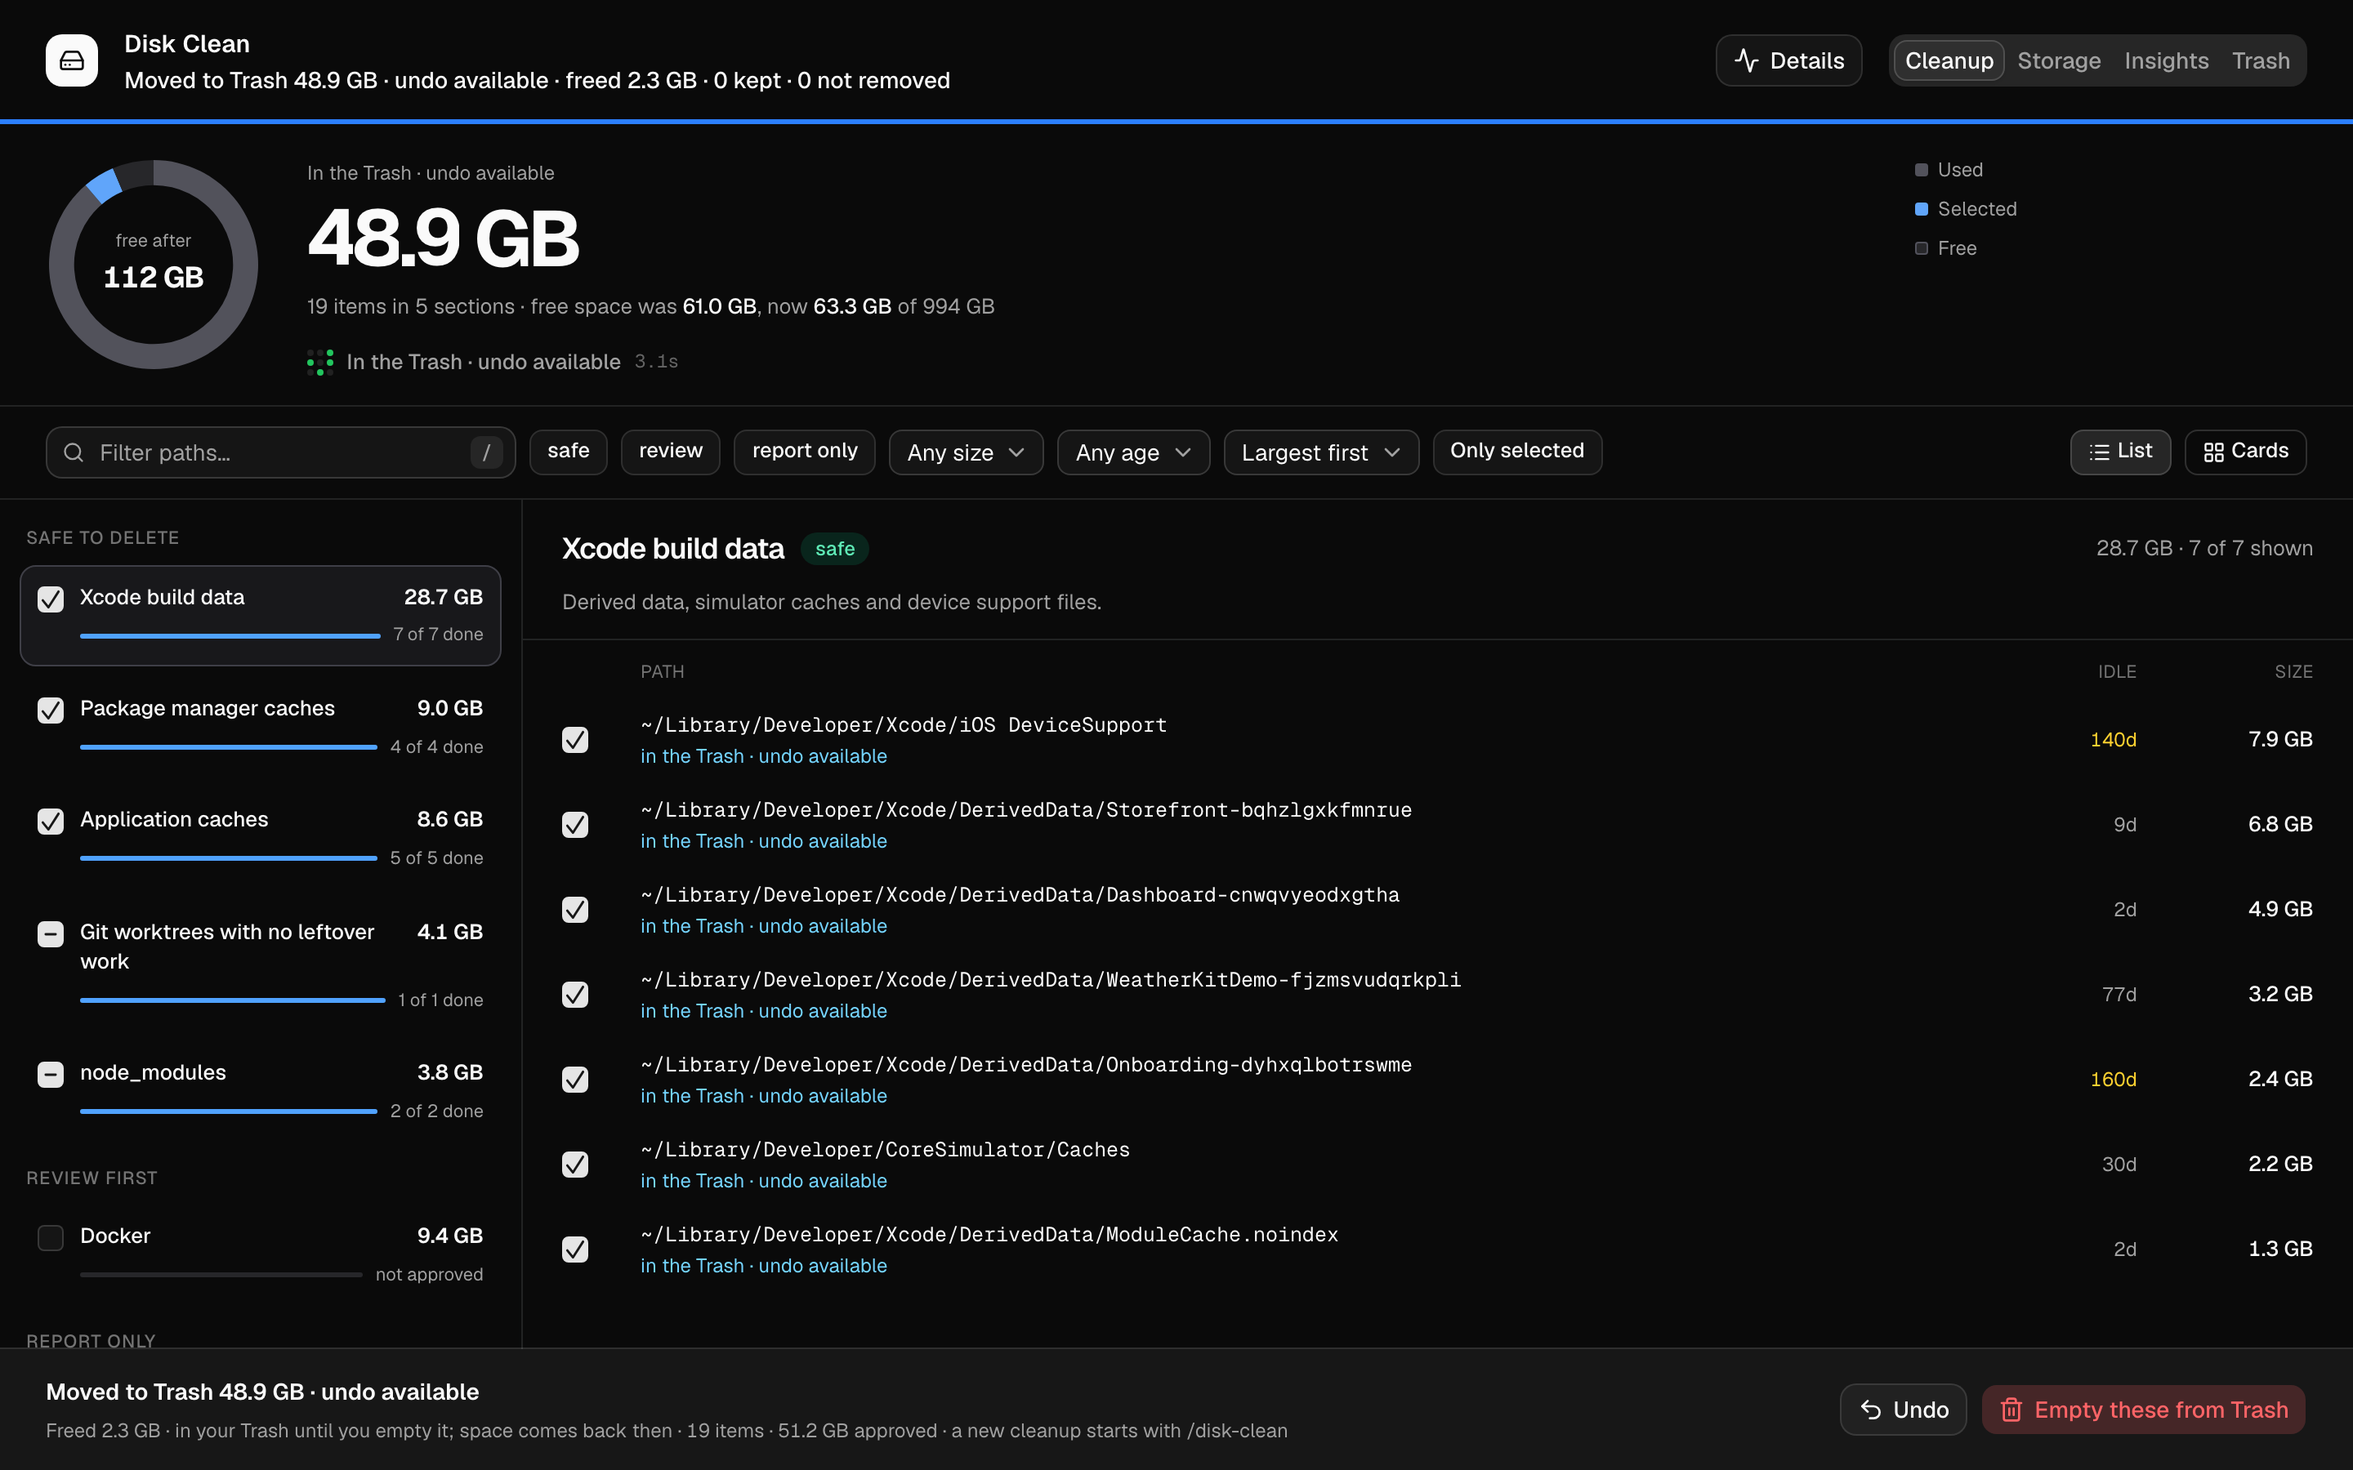
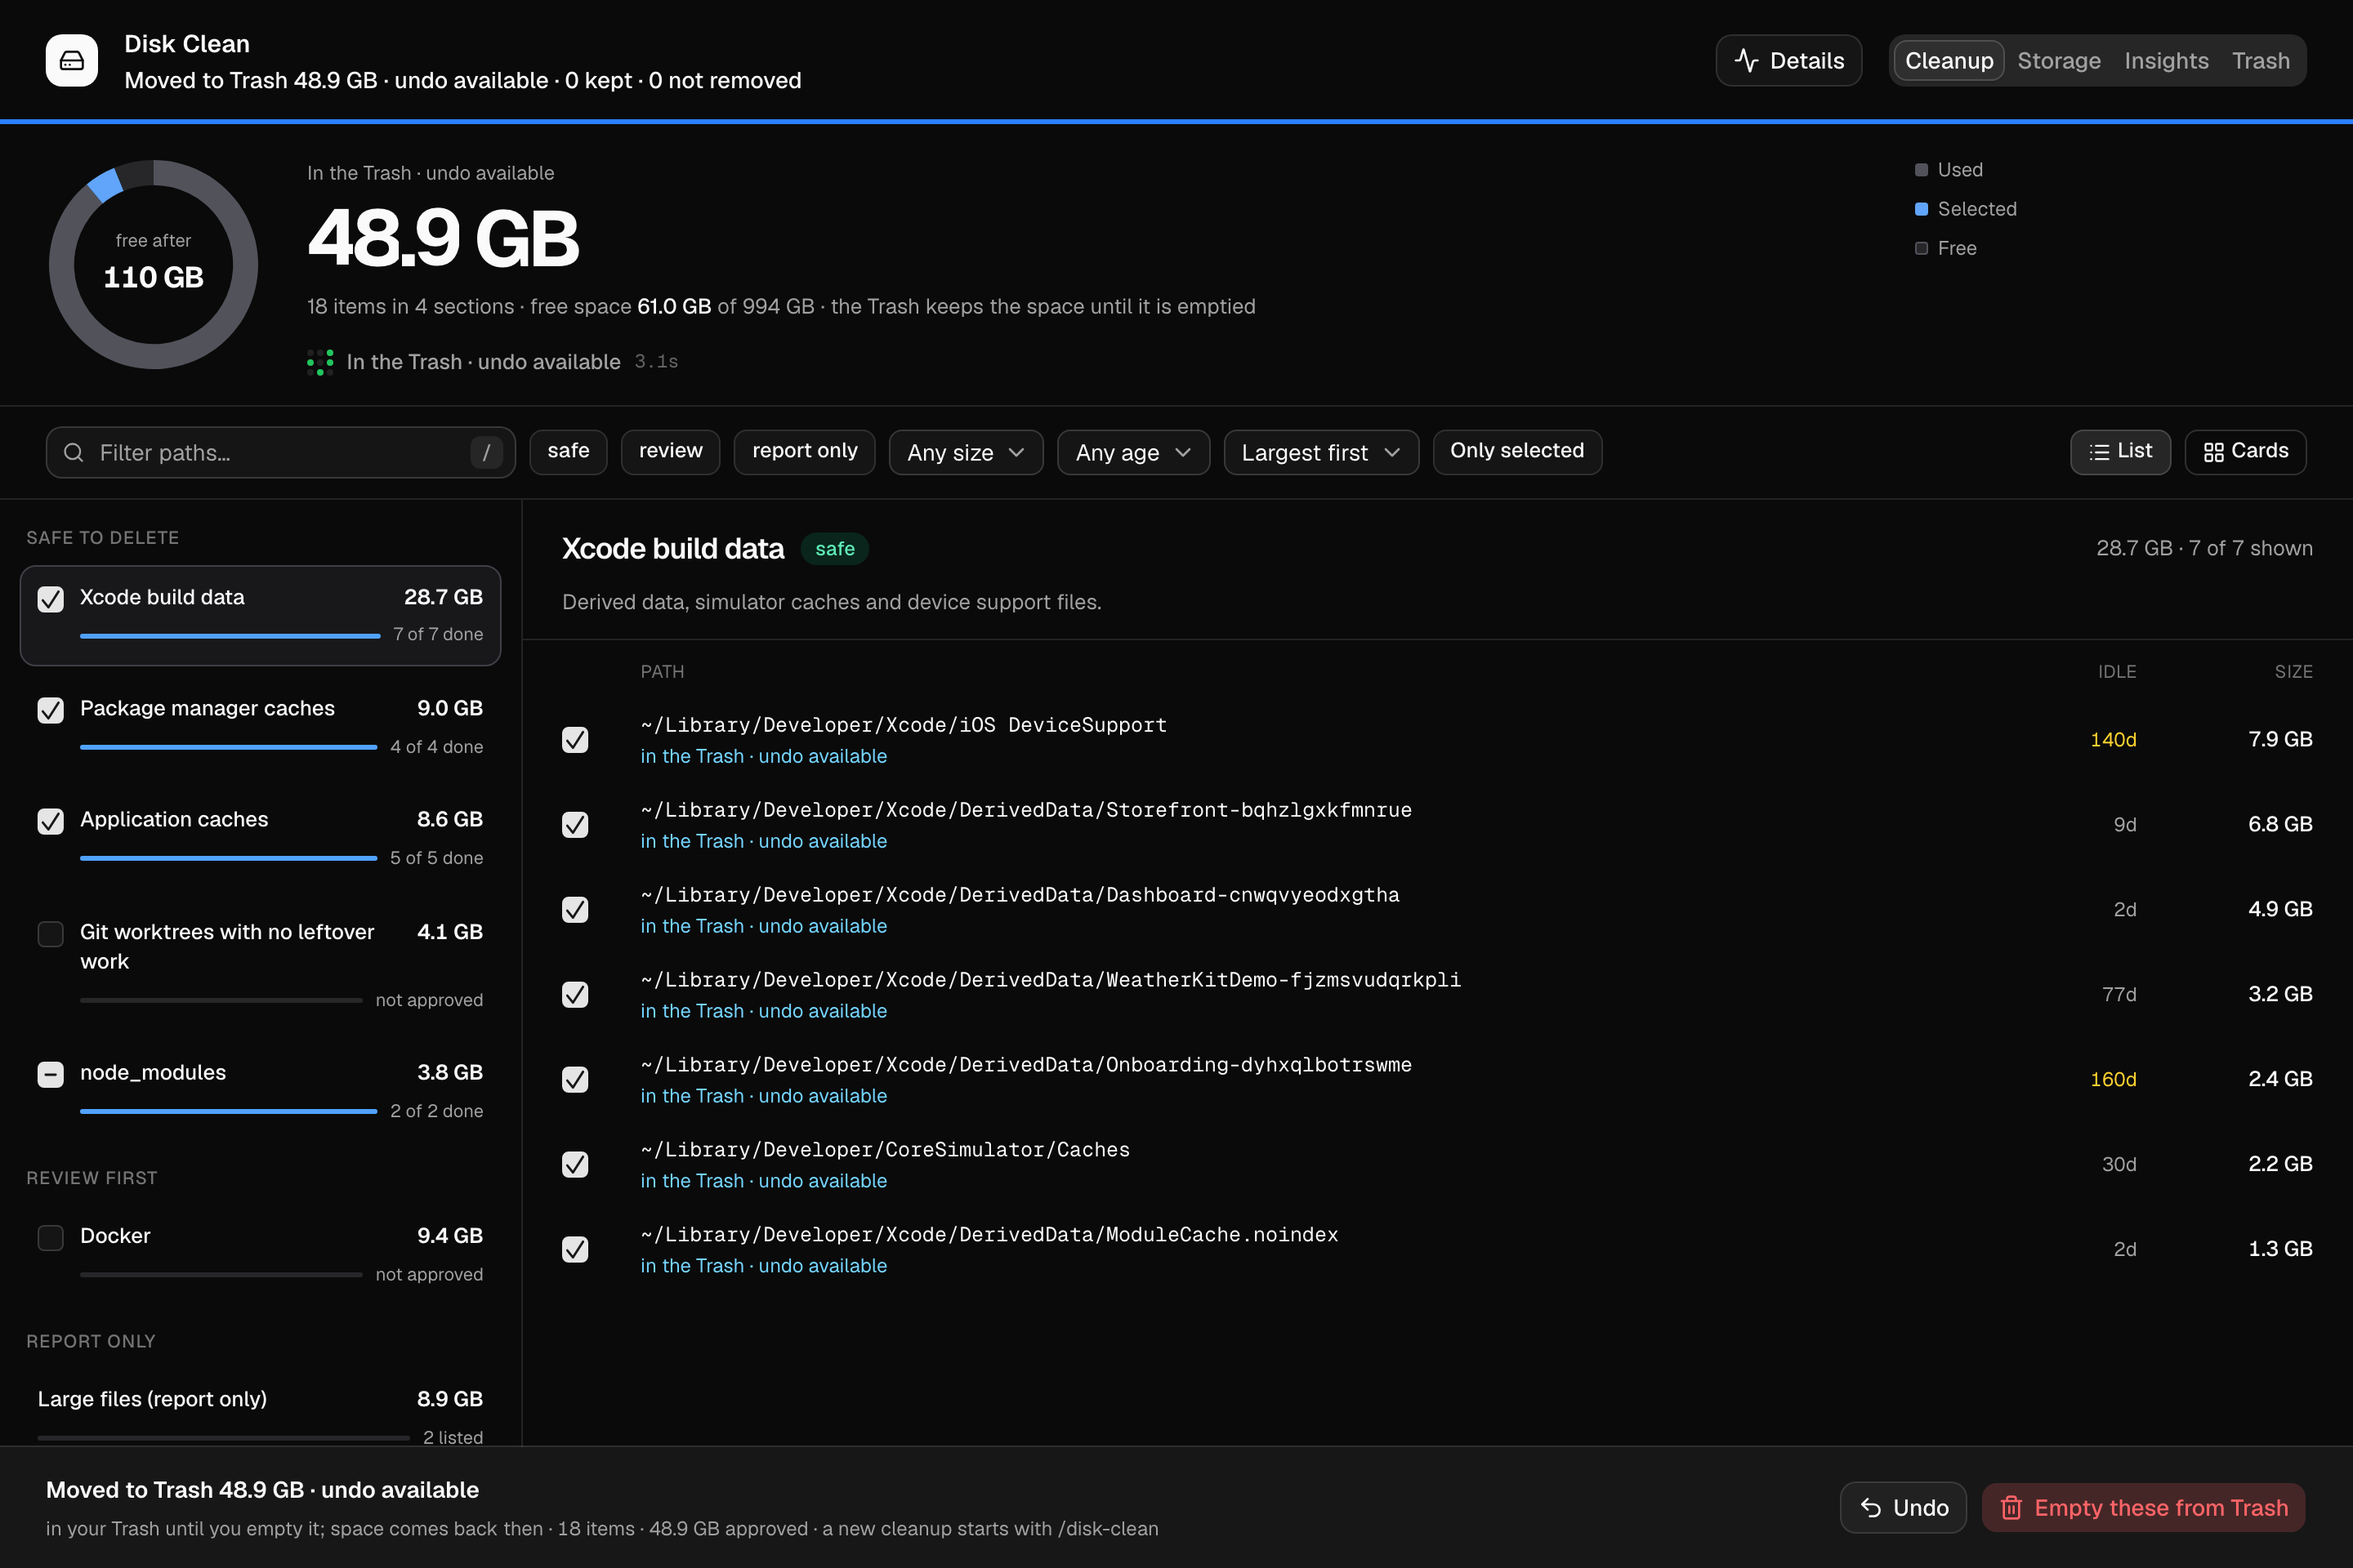
docs(disk-clean): retake hero, palette and confirm shots; live-scan emoji
The capture script now fills the page placeholders the way the binary does
(token, home, data with the run), so the demo ends on the real
"Moved to Trash · undo available" state. Hero and finale use a 960 px tall
viewport so no sidebar heading is cut; the palette is the full window; the
confirm list ends on a whole row and its footer fits one line.

diff --git a/plugins/disk-clean/web/scripts/screenshots.ts b/plugins/disk-clean/web/scripts/screenshots.ts
@@ -52,7 +52,7 @@ const categories = [
     item(`${HOME}/code/dashboard/node_modules`, 1.2 * GB, {label: '~/code/dashboard', age: 4, preselect: false, accuracy: 'estimate', note: 'pnpm project, last installed 4 days ago. Restore with: pnpm install'}),
   ]),
   category('worktrees', 'Git worktrees with no leftover work', 'Clean worktrees: no uncommitted, untracked or local-only ignored files, no process inside, nothing that exists only in the worktree. Only the folder goes; the branch and every commit stay. Every check is repeated right before removal.', 'safe', [
-    item(`${HOME}/code/dashboard-wt/fix-login`, 2.3 * GB, {age: 38, note: 'Branch fix-login is kept, branch is pushed. Re-create with: git worktree add ~/code/dashboard-wt/fix-login fix-login'}),
+    item(`${HOME}/code/dashboard-wt/fix-login`, 2.3 * GB, {age: 38, preselect: false, note: 'Branch fix-login is kept, branch is pushed. Re-create with: git worktree add ~/code/dashboard-wt/fix-login fix-login'}),
     item(`${HOME}/code/dashboard-wt/charts-v2`, 1.8 * GB, {age: 3, preselect: false, note: 'Active 3.0 days ago. Branch charts-v2 is kept, 2 unpushed commits stay on the local branch. Re-create with: git worktree add ~/code/dashboard-wt/charts-v2 charts-v2'}),
   ]),
   category('docker', 'Docker', 'Dangling images, stopped containers and build cache.', 'review', [
@@ -146,45 +146,31 @@ const RUN = 'run-20261004-161542-a2ad54a5'
 
 const fixture = {
   data: {categories, reclaimable, free: 61 * GB, total: 994 * GB, used: 933 * GB, home: tree.bytes, snapshots: 0, tree, insights},
-  token: 'synthetic',
-  home: HOME,
-  run: RUN,
-  trash: [],
 }
 
-const chosen = categories.flatMap(c => c.items).filter(i => i.preselect && !i.report)
-const chosenBytes = chosen.reduce((sum, i) => sum + i.bytes, 0)
+type Row = ReturnType<typeof item>
 
-const worktree = chosen.filter(i => i.path.includes('-wt/'))
-const trashable = chosen.filter(i => !worktree.includes(i))
-const trashableBytes = trashable.reduce((sum, i) => sum + i.bytes, 0)
-const worktreeBytes = worktree.reduce((sum, i) => sum + i.bytes, 0)
+const sum = (rows: Row[]) => rows.reduce((total, row) => total + row.bytes, 0)
+const recommended = categories.flatMap(c => c.items).filter(i => i.preselect && !i.report)
+const nodeModules = categories.find(c => c.id === 'node-modules')?.items ?? []
+const demoChosen = [...recommended, ...nodeModules.filter(i => !i.preselect)]
 
-const plan = {
-  paths: trashable.map(i => ({path: i.path, bytes: i.bytes, trashed: false})),
-  paths_bytes: trashableBytes,
-  final: [`git -C ${HOME}/code/dashboard worktree remove ${HOME}/code/dashboard-wt/fix-login`, `git -C ${HOME}/code/dashboard worktree prune`],
-  final_bytes: worktreeBytes,
-  final_count: worktree.length,
-  rejected: [],
-  count: chosen.length,
-  bytes: chosenBytes,
+function planFor(chosen: Row[]) {
+  return {paths: chosen.map(i => ({path: i.path, bytes: i.bytes, trashed: false})), paths_bytes: sum(chosen), final: [], final_bytes: 0, final_count: 0, rejected: [], count: chosen.length, bytes: sum(chosen)}
 }
 
-function cleanupEvents() {
+function cleanupEvents(chosen: Row[]) {
   const free = fixture.data.free
-  const entries = trashable.map((file, i) => {
+  const entries = chosen.map((file, i) => {
     const id = String(i + 1).padStart(16, '0')
     return {id, run: RUN, original: file.path, trashed: `${HOME}/.Trash/${file.path.split('/').at(-1)}`, bytes: file.bytes, at: NOW + i, dev: 1, ino: 100 + i, state: 'trashed', reason: ''}
   })
   const end = entries.length * 150
   return [
-    {type: 'started', data: {run: RUN, free, paths: entries.length, trash: entries.length, worktrees: 1, commands: 0, bytes: chosenBytes, elapsed_ms: 0}},
+    {type: 'started', data: {run: RUN, free, paths: entries.length, trash: entries.length, worktrees: 0, commands: 0, bytes: sum(chosen), elapsed_ms: 0}},
     ...entries.map((e, i) => ({type: 'trashed', data: {path: e.original, bytes: e.bytes, id: e.id, trashed_path: e.trashed, elapsed_ms: (i + 1) * 150}})),
     {type: 'trash', data: {entries, elapsed_ms: end + 1}},
-    {type: 'worktree', data: {path: `${HOME}/code/dashboard-wt/fix-login`, bytes: worktreeBytes, outcome: 'removed', reason: '', elapsed_ms: end + 300}},
-    {type: 'free', data: {free: free + worktreeBytes, elapsed_ms: end + 301}},
-    {type: 'done', data: {removed: 1, removed_bytes: worktreeBytes, trashed: entries.length, trashed_bytes: trashableBytes, free_before: free, free_after: free + worktreeBytes, elapsed_ms: end + 400}},
+    {type: 'done', data: {removed: 0, removed_bytes: 0, trashed: entries.length, trashed_bytes: sum(chosen), free_before: free, free_after: free, elapsed_ms: end + 400}},
   ]
 }
 
@@ -215,10 +201,21 @@ function openForever(streams: Stream[]) {
   } as unknown as typeof EventSource
 }
 
-async function mockServer(page: Page, streams: Stream[]) {
+async function mockServer(page: Page, chosen: Row[], streams: Stream[], embedded: object) {
   await page.addInitScript(openForever, streams)
-  await page.route('**/dev/fixture.json', route => route.fulfill({json: fixture}))
-  await page.route('**/preview', route => route.fulfill({json: plan}))
+  await page.route(
+    url => url.pathname === '/' || url.pathname.startsWith('/cleanup') || url.pathname.startsWith('/storage') || url.pathname.startsWith('/insights'),
+    async route => {
+      const response = await route.fetch()
+      const html = (await response.text())
+        .replace('__TOKEN__', 'synthetic')
+        .replace('__PLATFORM__', 'macos')
+        .replace('__HOME__', HOME)
+        .replace('__DATA__', JSON.stringify({...embedded, run: RUN, trash: []}))
+      await route.fulfill({response, body: html})
+    },
+  )
+  await page.route('**/preview', route => route.fulfill({json: planFor(chosen)}))
   await page.route('**/decide', route => route.fulfill({json: {}}))
 }
 
@@ -235,15 +232,17 @@ const VIEWPORT = {viewport: {width: 1440, height: 900}, deviceScaleFactor: 2, co
 
 async function screenshots(browser: Browser) {
   const page = await browser.newPage(VIEWPORT)
-  await mockServer(page, [cleanupEvents()])
+  await mockServer(page, recommended, [cleanupEvents(recommended)], fixture.data)
 
+  await page.setViewportSize({width: 1440, height: 960})
   await page.goto(`${BASE}/cleanup`)
   await page.getByRole('table').first().waitFor()
   await shot(page, 'cleanup')
+  await page.setViewportSize({width: 1440, height: 900})
 
   await page.keyboard.press('ControlOrMeta+k')
   await page.getByRole('dialog').waitFor()
-  await shot(page, 'palette', page.getByRole('dialog'))
+  await shot(page, 'palette')
   await page.keyboard.press('Escape')
 
   await page.setViewportSize({width: 1440, height: 1040})
@@ -254,6 +253,7 @@ async function screenshots(browser: Browser) {
   await page.goto(`${BASE}/insights`)
   await shot(page, 'insights')
 
+  await page.setViewportSize({width: 1680, height: 940})
   await page.goto(`${BASE}/cleanup`)
   await page.getByRole('table').first().waitFor()
   await page.getByRole('button', {name: /^Delete \d+ items/}).click()
@@ -261,6 +261,7 @@ async function screenshots(browser: Browser) {
   await shot(page, 'confirm', page.getByRole('dialog'))
 
   await page.getByRole('dialog').getByRole('button', {name: /Move .* to the Trash/}).click()
+  await page.setViewportSize({width: 1440, height: 960})
   await page.waitForTimeout(6000)
   await shot(page, 'finale')
   await page.close()
@@ -268,7 +269,7 @@ async function screenshots(browser: Browser) {
 
 async function demo(browser: Browser) {
   const page = await browser.newPage(VIEWPORT)
-  await mockServer(page, [scanEvents(), cleanupEvents()])
+  await mockServer(page, demoChosen, [scanEvents(), cleanupEvents(demoChosen)], {live: true})
   const frames = mkdtempSync(join(tmpdir(), 'disk-clean-demo-'))
   const stamps: {file: string; at: number}[] = []
   const cdp = await page.context().newCDPSession(page)
@@ -278,7 +279,7 @@ async function demo(browser: Browser) {
     stamps.push({file, at: metadata.timestamp ?? 0})
     void cdp.send('Page.screencastFrameAck', {sessionId})
   })
-  await page.goto(`${BASE}/?live&token=synthetic`)
+  await page.goto(`${BASE}/cleanup`)
   await page.getByText('Disk Clean').first().waitFor()
   await cdp.send('Page.startScreencast', {format: 'png', maxWidth: 1920, maxHeight: 1200})
   await page.waitForTimeout(3800)

diff --git a/README.md b/README.md
@@ -71,7 +71,7 @@ Requirements: macOS, Linux or Windows, and `git`. Rust only if building from sou
 
 ## Features
 
-- 🔴 &nbsp;**Live scan**: the review page opens as soon as the scan starts and fills in while it runs. Items already listed can be deleted before it finishes.
+- ⚡ &nbsp;**Live scan**: the review page opens as soon as the scan starts and fills in while it runs. Items already listed can be deleted before it finishes.
 - ✅ &nbsp;**Nothing without your OK**: nothing is deleted until you confirm, and the confirm dialog lists every path, its size, and the exact commands that will run.
 - ♻ &nbsp;**Undo**: items go to the macOS Trash, the freedesktop.org Trash on Linux, or the Recycle Bin on Windows. Undo puts a whole cleanup back; Empty removes only disk-clean's items for good.
 - 🗂 &nbsp;**Sections by risk**: Safe, Review first and Report only, with search, risk, size and idle filters, sorting, a list or card view, and quick picks for "idle 90+ days" and "idle 1+ year".
@@ -97,7 +97,7 @@ already ticked. The Storage and Insights tabs show where the rest of the disk we
   <br><br>
   <img src="./.github/assets/insights.png" alt="Insights tab: a year heatmap of when files last changed, the age of the largest folders, and bytes by file kind" width="860">
   <br><br>
-  <img src="./.github/assets/palette.png" alt="Command palette opened with Cmd+K, offering Delete, Delete immediately, Show only selected, Clear selection and Copy paths" width="464">
+  <img src="./.github/assets/palette.png" alt="Command palette opened with Cmd+K, offering Delete, Delete immediately, Show only selected, Clear selection and Copy paths" width="860">
 </div>
 
 **3. Delete to the Trash.** Click **Delete**. The confirm dialog is built by the same validation
@@ -106,7 +106,7 @@ commands) and anything the safety checks rejected. **Delete immediately…** ski
 so first.
 
 <div align="center">
-  <img src="./.github/assets/confirm.png" alt="Move to the Trash dialog listing every path and size, the git worktree commands that can't be undone, and the Move button" width="760">
+  <img src="./.github/assets/confirm.png" alt="Move to the Trash dialog with the totals, every path and its size, and the Move button" width="760">
 </div>
 
 **4. Undo.** The cleanup runs in the background and the page follows it live. When it is done,
